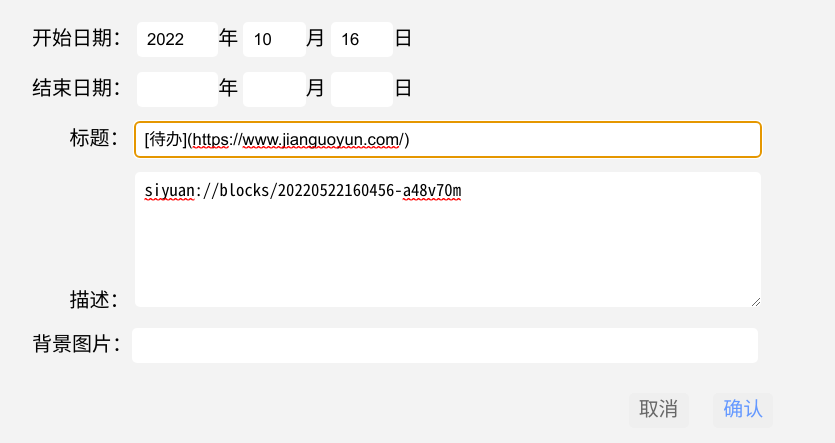
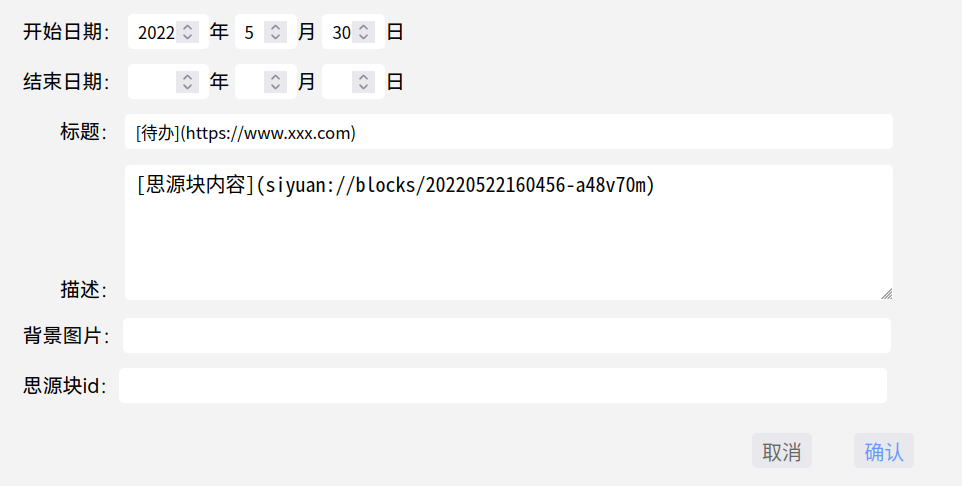
更新v0.0.7,完全支持思源块超链接,fix #2

diff --git a/manipulations.js b/manipulations.js
@@ -337,36 +337,36 @@ function editSlide() {
     }
 }
 
-function jumpToBlock() {
-    // 获取正文中的超链接
-    var tl_text = timeline
-        .getCurrentSlide()
-        .data.text.text.replace(/.+(siyuan:\/\/blocks\/.+)/, "$1")
-        .slice(0, 38);
-    // 正则限制长度不起作用？
-    // console.log(tl_text)
+// function jumpToBlock() {
+//     // 获取正文中的超链接
+//     var tl_text = timeline
+//         .getCurrentSlide()
+//         .data.text.text.replace(/.+(siyuan:\/\/blocks\/.+)/, "$1")
+//         .slice(0, 38);
+//     // 正则限制长度不起作用？
+//     // console.log(tl_text)
 
-    var blockid = tl_text.replace(/^siyuan:\/\/blocks\/(.{22})$/, "$1");
+//     var blockid = tl_text.replace(/^siyuan:\/\/blocks\/(.{22})$/, "$1");
 
-    $.ajax({
-        type: "POST",
-        url: "/api/filetree/getHPathByID",
-        data: JSON.stringify({
-            id: blockid,
-        }),
-        success(res) {
-            // console.log(res)
-            if (res.code != 0) {
-                // 验证块是否存在
-                console.log("块不存在");
-                return;
-            } else {
-                // 存在则跳转
-                window.location.href = tl_text;
-            }
-        },
-    });
-}
+//     $.ajax({
+//         type: "POST",
+//         url: "/api/filetree/getHPathByID",
+//         data: JSON.stringify({
+//             id: blockid,
+//         }),
+//         success(res) {
+//             // console.log(res)
+//             if (res.code != 0) {
+//                 // 验证块是否存在
+//                 console.log("块不存在");
+//                 return;
+//             } else {
+//                 // 存在则跳转
+//                 window.location.href = tl_text;
+//             }
+//         },
+//     });
+// }
 function modifyEditor() {
     let iframes = document.querySelectorAll("iframe[data-id]");
     console.log(iframes);

diff --git a/index.html b/index.html
@@ -12,7 +12,8 @@
     </div>
     <div style="top: 180px;right: 30px;position: absolute;z-index: 999;">
         <p>
-            <input type="button" value="跳转到块" class="tl-blue-button" onclick="jumpToBlock()">
+            <!-- 已不再需要跳转到块按钮
+            <input type="button" value="跳转到块" class="tl-blue-button" onclick="jumpToBlock()"> -->
             <input type="button" value="新建" class="tl-blue-button" onclick="document.getElementById('light').style.display='block';
                                                         document.getElementById('fade').style.display='block'">
             <input type="button" value="编辑" class="tl-blue-button" onclick="document.getElementById('light').style.display='block';

diff --git a/README.md b/README.md
@@ -6,8 +6,6 @@
 
 ![](./preview.png)
 
-![](./images/light.png)
-
 ## 使用说明
 
 * **界面介绍**
@@ -34,11 +32,13 @@
 
 * **嵌入或链接到思源内容块**
 
-  * **链接**：**描述**支持粘贴**思源块超链接**,保存后在该页点击“**跳转到块**”按钮可**跳转到对应块**。
+  * **链接**：**描述**支持粘贴**思源块超链接**,粘贴思源块超链接不影响输入其他内容，保存后点击链接即可跳转到对应块。
+    
+    同时，思源块超链接同样支持markdown链接语法，可通过`[锚文本](思源块超链接)`语法插入超链接。
     ![image.png](./images/edit2.png)
 
   * **嵌入**：在**思源块id**填入id即可在幻灯片嵌入该内容块。
-    ![image.png](./images/linktoblock.png)
+    ![image.png](./images/embedblock.png)
 
 * **数据存储：** 时间线数据存储在挂件块的自定义属性中，建议将数据做个备份以防不测。
 
@@ -52,6 +52,7 @@
 
 ## 更新日志
 
-- 20220527：v0.0.6, 描述支持换行，删除时自动跳到下一个
+- 20220530：v0.0.7，支持直接插入思源块超链接，支持markdown语法插入思源块超链接
+- 20220527：v0.0.6，描述支持换行，删除时自动跳到下一个
 - 20220525：v0.0.5，支持嵌入思源内容块
 - 20220524：v0.0.4，支持链接到思源内容块，支持markdown语法链接
